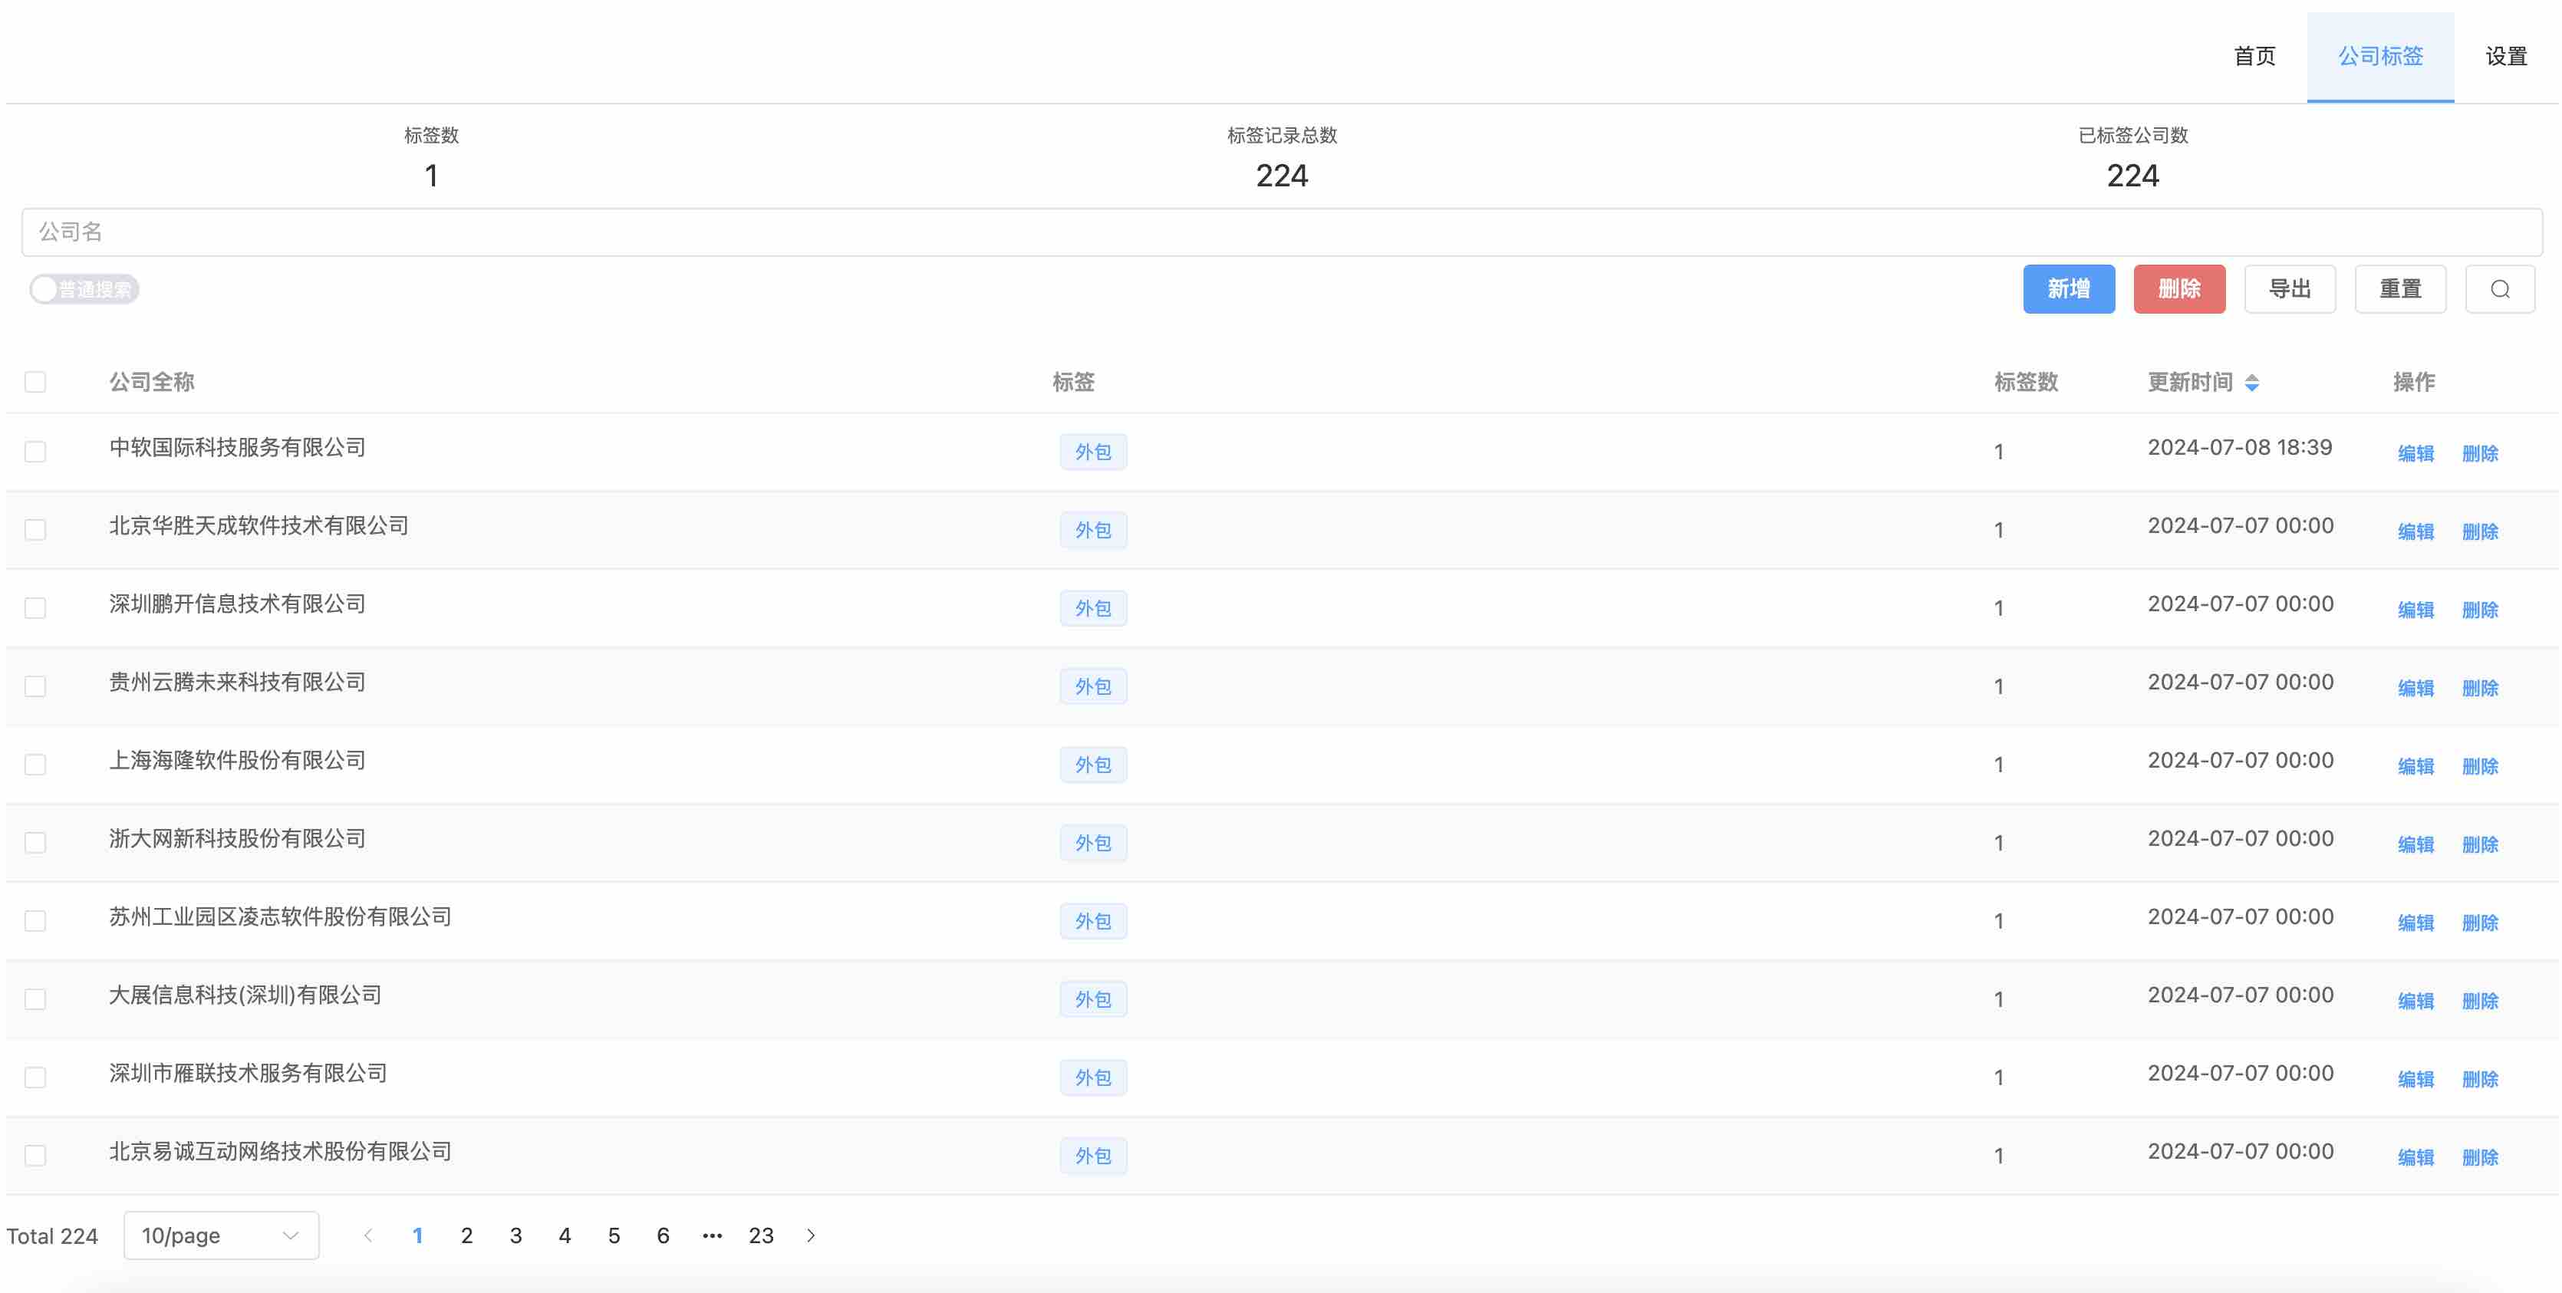
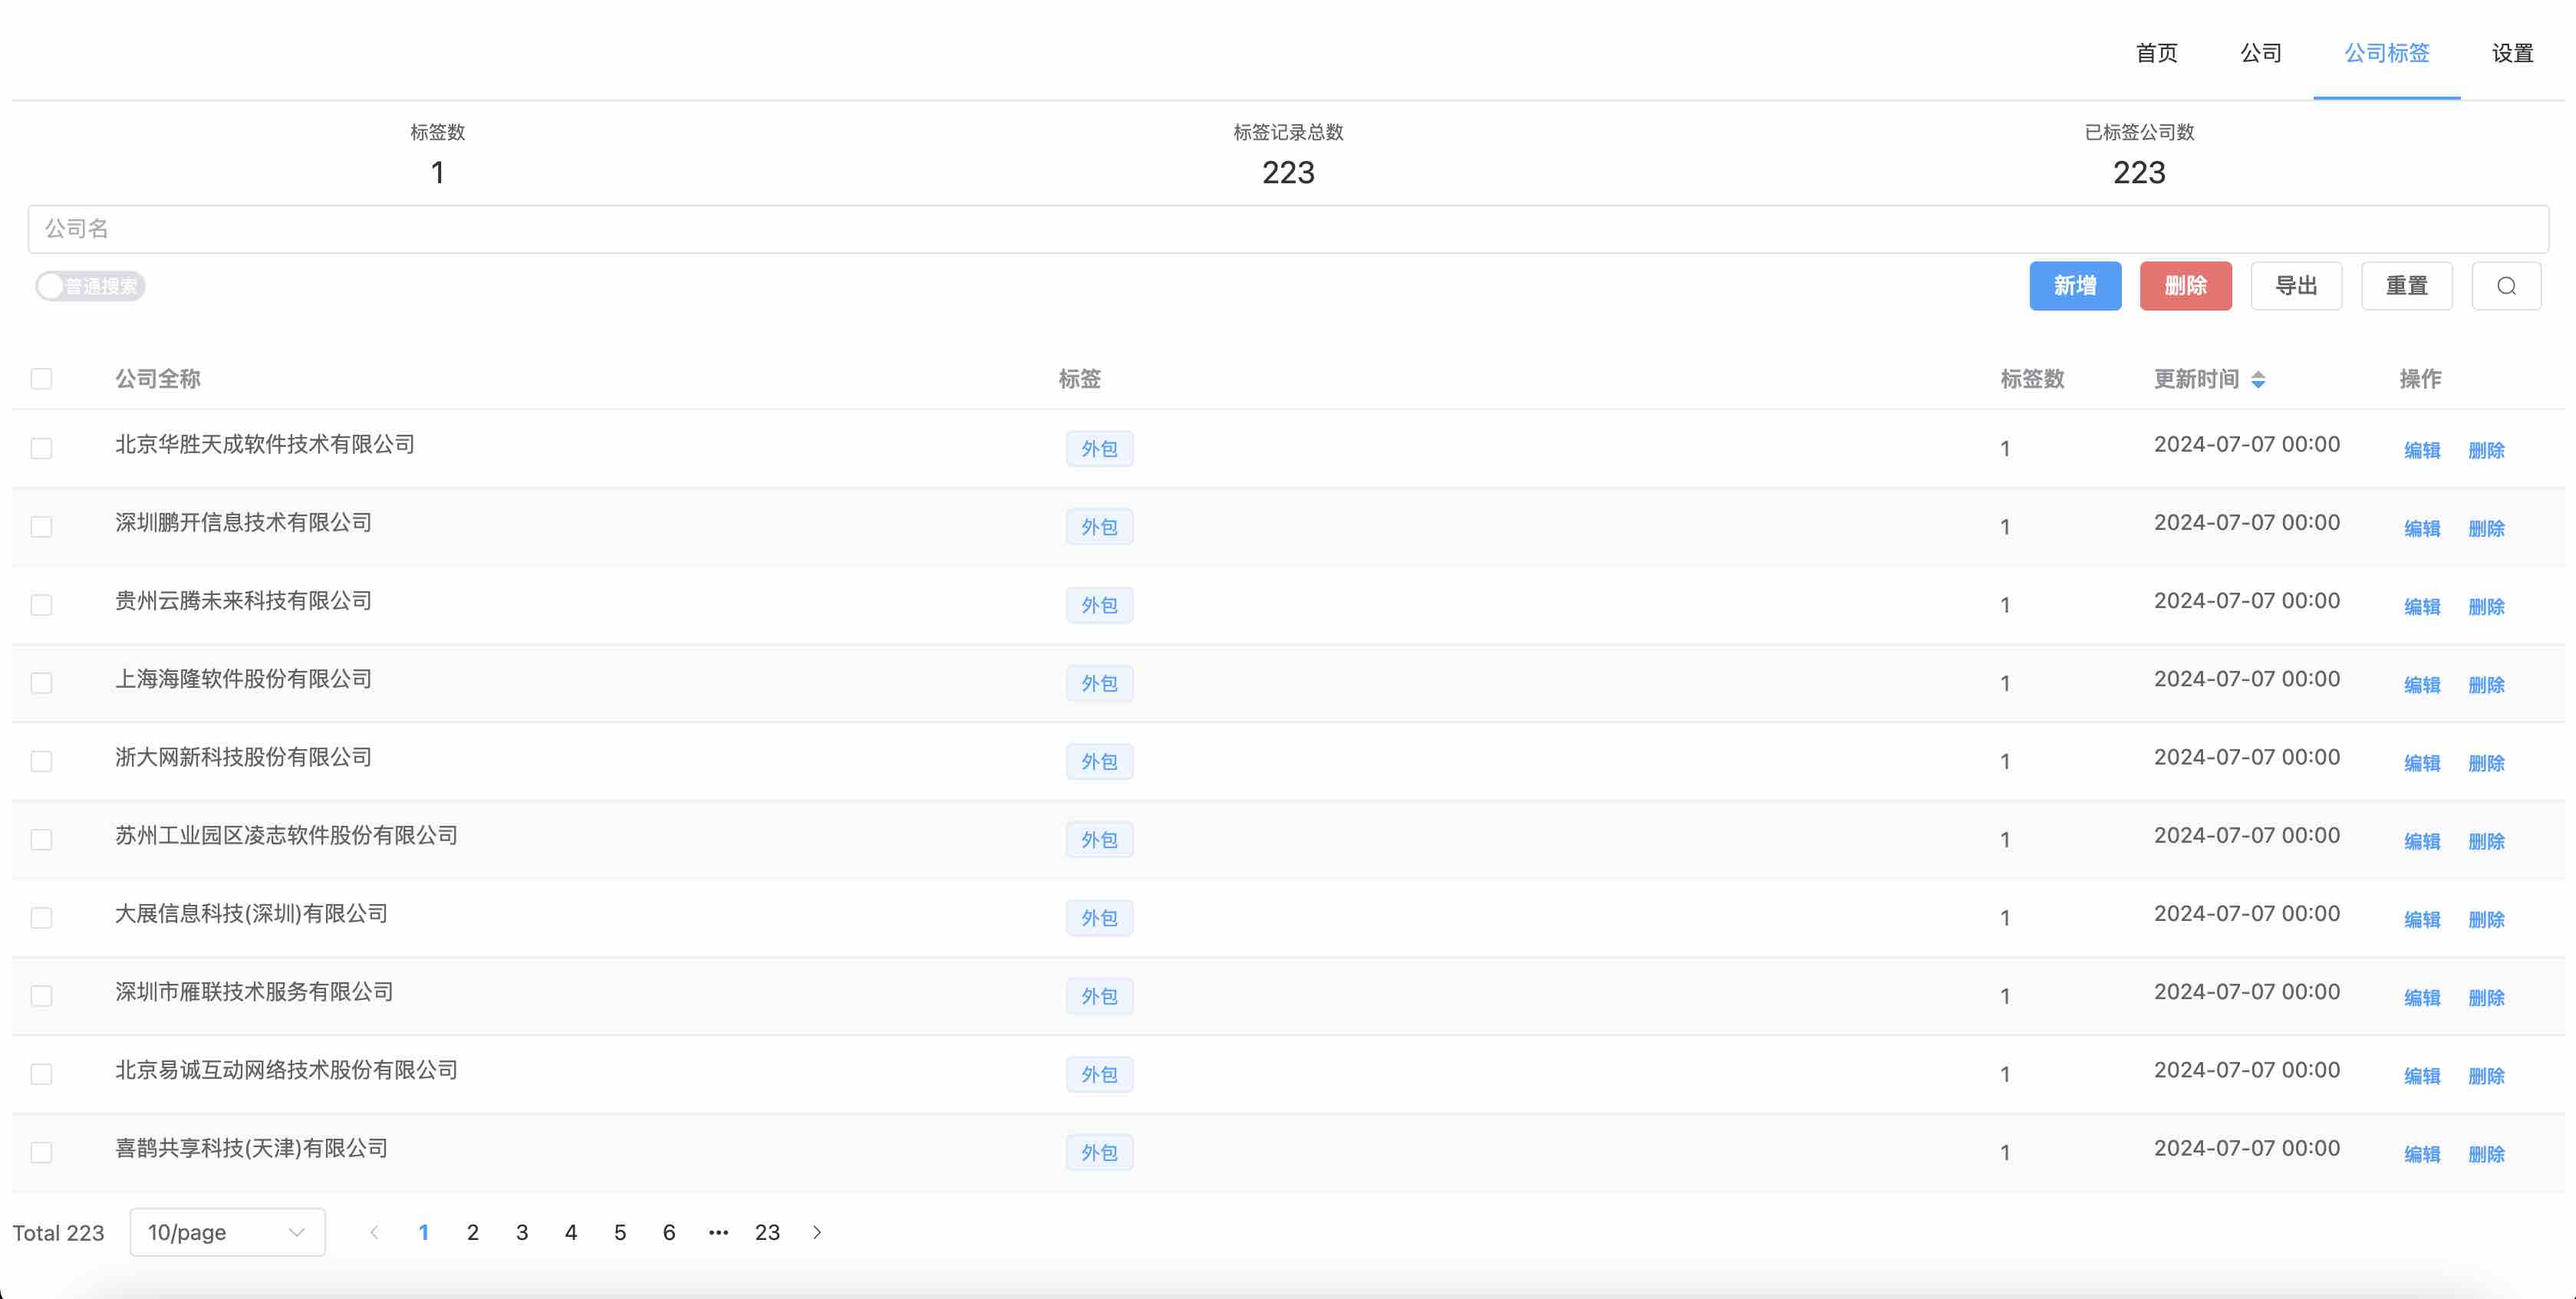
docs: add company admin page introduction,update other admin page introduction

diff --git a/README.md b/README.md
@@ -65,6 +65,12 @@
         </div>
 	</div>
     <div style="margin-top:20px">
+        <img src="docs\introduction\sidepanel_admin_company.jpg" alt="sidepanel_admin_company" width="1000px"/>
+        <div style="text-align:center">
+            公司管理
+        </div>
+	</div>
+    <div style="margin-top:20px">
         <img src="docs\introduction\sidepanel_admin_company_tag.jpg" alt="sidepanel_admin_company_tag" width="1000px"/>
         <div style="text-align:center">
             公司标签管理
